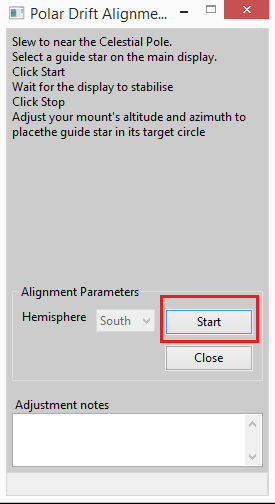
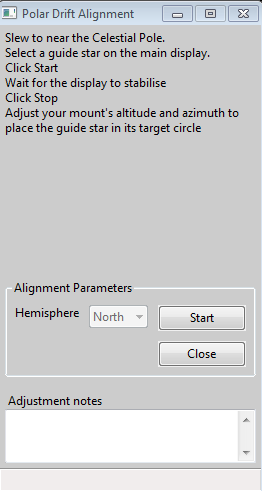
Updated help content, fix spacing issue in polar-drift-align dialog.

Changed region(s): [[0.0, 0.0, 1.0, 1.0]]

diff --git a/help/Tutorials.htm b/help/Tutorials.htm
@@ -133,11 +133,11 @@ rotation.</li>
 </ul>
 <br>
 Now open the SPA tool via 'Tools'/'Static Polar Alignment', and the
-first window will open:<br>
+first window will open:<br><br>
 <br>
 <img style="width: 431px; height: 673px;" alt="" src="spa_IMG01.png"><br>
 <br>
-The PHD2 main display would look like this (southern pole example):<br>
+The PHD2 main display would look like this (southern pole example):<br><br>
 <br>
 <img style="width: 757px; height: 469px;" alt="" src="spa_IMG01a.png"><br>
 <br>
@@ -147,7 +147,7 @@ calibration and mount position. You can
 adjust the &#8216;Hour Angle&#8217; control or use the
 &#8216;Flip Camera&#8217; option to orient the
 star map to the main display. To pan the star map you can double click
-the point you want at the center; or click the &#8216;>&#8217; button to center
+the point you want at the center; or click the &#8216;&gt;&#8217; button to center
 the selected reference star.<br>
 The button to the right of the star map lets you toggle between displaying the star
 map or instructions for using the SPA tool.<br>
@@ -162,15 +162,15 @@ When you are ready to start aligning, click &#8216;Rotate&#8217;.
 The current position is indicated with a small blue circle on the main display, and
 the coordinates are displayed in the status bar. Note that the &#8216;Rotate&#8217; button has
 changed to a &#8216;Stop&#8217; button. If you want to quit or stop the mount slewing, click the
-&#8216;Stop&#8217; button.<br>
+&#8216;Stop&#8217; button.<br><br>
 <br>
-<img style="width: 431px; height: 673px;" alt="" src="spa_IMG02.png"><br>
+<img style="width: 431px; height: 673px;" alt="" src="spa_IMG02.png"><br><br>
 <br>
 <img style="width: 747px; height: 411px;" alt="" src="spa_IMG02a.png"><br>
 <br>
 After you click 'Rotate', the mount will slew west in RA in small steps as indicated in the status bar.
 Once two points have been recorded, the alignment graphic is overlaid on the PHD2 main
-display.<br>
+display.<br><br>
 <br>
 <img style="width: 758px; height: 573px;" alt="" src="spa_IMG03.png"><br>
 <br>
@@ -197,7 +197,7 @@ with the scope&#8217;s rotation.</li>
 </ul>
 <br>
 Now open the SPA tool via 'Tools'/'Static Polar Alignment', and the
-first window will open:<br>
+first window will open:<br><br>
 <br>
 <img style="width: 431px; height: 673px;" alt="" src="spa_IMG04.png"><br>
 <br>
@@ -207,7 +207,7 @@ calibration and mount position. You can
 adjust the &#8216;Hour Angle&#8217; control or use the
 &#8216;Flip Camera&#8217; option to orient the
 star map to the main display. To pan the star map you can double click
-the point you want at the center; or click the &#8216;>&#8217; button to center
+the point you want at the center; or click the &#8216;&gt;&#8217; button to center
 the selected reference star.<br>
 The button to the right of the star map lets you toggle between displaying the star
 map or instructions for using the SPA tool.<br>
@@ -220,7 +220,7 @@ Identify which star you selected with the drop-down list. Don't worry if you
 don't get it right, it can be corrected later.<br>
 <br>
 When ready, click &#8216;Get first position&#8217;. The current position is indicated with a small
-blue circle on the main display, and the coordinates are displayed in the status bar.<br>
+blue circle on the main display, and the coordinates are displayed in the status bar.<br><br>
 <br>
 <img style="width: 540px; height: 415px;" alt="" src="spa_IMG04a.png"><br>
 <br>
@@ -230,7 +230,7 @@ Slew the mount at least 20 minutes west in RA (RA decreases as you slew west).
 Select the same reference star on the main display.
 <br>
 Click &#8216;Get second position&#8217;. The position is marked with another small blue circle and
-the coordinates are displayed in the status bar.<br>
+the coordinates are displayed in the status bar.<br><br>
 <br>
 <img style="width: 543px; height: 391px;" alt="" src="spa_IMG05.png"><br>
 <br>
@@ -250,7 +250,7 @@ replace the bad point. The points do not have to be in order.
 <br>
 <br>
 The corrected alignment graphic updates automatically.
-<br>
+<br><br>
 <img style="width: 539px; height: 456px;" alt="" src="spa_IMG06.png"><br>
 <br>
 <br>
@@ -258,7 +258,7 @@ Follow the instructions in the next section to adjust your mount&#8217;s polar a
 <br>
 <h2>Using the Polar Alignment Overlay</h2>
 The polar alignment overlay is placed on the main display once enough alignment points have
-been collected.<br>
+been collected.<br><br>
 <br>
 <img style="width: 628px; height: 497px;" alt="" src="spa_IMG07.png"><br>
 <br>
@@ -297,15 +297,20 @@ re-calibrate. <br>
 <br>
 <br>
 <h1><a name="Polar_Drift_Align"></a>PHD2 Polar Drift Alignment Tool</h1>
-The Polar Drift Alignment tool operates on a similar principle to the regular Drift Alignment tool.
-The difference is that the drift is measured near the celestial pole to calculate the adjustments needed
-in both Azimuth and Altitude at the same time. However, it is becomes less accurate as the distance of the
-drift star from the pole increases. Also, it may take some time for the adjustment to settle so Static
-Polar Alignment can be faster. The main advantages of Polar Drift Alignment are that any star can be chosen and
-at most, the tool only needs your hemisphere to be entered.<br>
+The Polar Drift Alignment tool operates on a similar principle to the
+regular Drift Alignment tool.
+The difference is that the drift is measured near the celestial pole to
+calculate the adjustments needed
+in both Azimuth and Altitude at the same time. However, it&nbsp;becomes
+less accurate as the distance of the
+drift star from the pole increases. Also, it may take some time for the
+adjustment to settle so Static
+Polar Alignment can be faster. The main advantages of Polar Drift
+Alignment are that any star can be chosen and&nbsp;the tool only needs
+to know which hemisphere you're in.<br>
 To get started, perform the following steps:<br>
 <ul>
-<li>Connect PHD2 to your camera</span></li>
+<li>Connect PHD2 to your camera</li>
 <li>Be sure that PHD2 has already done a calibration for this set-up</li>
 <li>Manually adjust the mount&#8217;s RA axis to point within 5 degrees of the apparent pole, then
 slew the telescope to point to Dec = +90 or -90. On a German equatorial mount, it&#8217;s best to start with
@@ -313,12 +318,12 @@ the mount in the counterweight-down orientation, pointing at the pole.</li>
 <li>Check that your hemisphere is correctly identified and adjust if necessary</li>
 <li>Select a suitable guide star on the main display</li>
 </ul>
-Click the &#8216;Start&#8217; button to start the drift.<br>
-<img style="width: 275px; height: 504px;" alt="" src="pd_IMG01.png"><br>
+Click the &#8216;Start&#8217; button to start the drift.<br><br>
+<img style="width: 262px; height: 491px;" alt="" src="pd_IMG01.png"><br><br>
 You will soon see a red line appear on the main display. This shows the adjustment needed on the guide star 
 to minimise the drift. At first it will move around a lot until it settles onto a stable adjustment.<br>
 When it has settled, click the &#8216;Stop&#8217; button. The adjustment will remain on the main display.<br>
-Adjust the altitude and azimuth knobs to move the guide star into the red circle at the end of the red line.<br>
+Adjust the altitude and azimuth knobs to move the guide star into the red circle at the end of the red line.<br><br><br>
 <img style="width: 587px; height: 500px;" alt="" src="pd_IMG02.png"><br>
 
 </body></html>

diff --git a/help/Tools.htm b/help/Tools.htm
@@ -294,11 +294,13 @@ does require visibility and identification of several stars near the pole, but
 the tool makes that reasonably easy assuming your sky conditions are good
 enough to see the stars.&nbsp; </p><span style=""></span>
 
-<p>The third alignment option, polar drift alignment, is probably the simplest one to perform at the expense of a bit of accuracy and speed. It
-requires a clear view of the northern or southern polar region, and it facilitates adjustment of both mount axes at the same time. 
-Minimal user input is needed so it is very simple to use.
-
-<p class="MsoNormal"><o:p>&nbsp;</o:p>The three techniques are described in detail in the following
+<p>The third alignment option, polar drift alignment, is probably the
+simplest one to perform at the expense of a bit of accuracy and speed.
+It
+requires a clear view of the northern or southern polar region, and it
+facilitates adjustment of both mount axes at the same time. Minimal
+user input is needed so it is very simple to use.
+</p><p class="MsoNormal"><o:p>&nbsp;</o:p>The three techniques are described in detail in the following
 sections.<span style="">&nbsp; </span>Imagers should probably
 experiment with them and choose the one that best suits their
 needs.<span style="">&nbsp; </span>The importance of alignment
@@ -445,13 +447,9 @@ mechanism. &nbsp;You&nbsp;then click
 will appear to wander around on the display - this is entirely normal.
 &nbsp;As guider images are acquired, statistics are computed and
 displayed in real-time in the user interface. Of particular interest
-are the table entries in the "High-frequency Star Motion" section which
-show ongoing results of the averaging process. &nbsp;After about one
-minute of data collection, these numbers will usually stabilize and
-you'll have a reasonable measurement of the high-frequency star
-movement caused by seeing conditions. &nbsp;You'll also have a rough measure of your polar alignment error although the accuracy
-will&nbsp;improve if you let the sampling run for longer periods
-of time. &nbsp;If you want to get an accurate measure of your polar alignment error
+are the table entries for&nbsp;"High-frequency Star Motion" and "Polar Alignment Error". &nbsp;After about two
+minutes of data collection, these numbers will usually stabilize and
+you'll have&nbsp;reasonable measurements. &nbsp;If you want to get a more accurate measure of your polar alignment error
 and any uncorrected periodic error in RA, you'll need to let the
 Guiding Assistant run for up to 10 minutes. When you finally click the 'Stop'
 button, this phase of the measurement process will stop. &nbsp; &nbsp;If
@@ -474,7 +472,10 @@ you've checked the box to 'Measure Declination Backlash',
 that&nbsp;process will begin as soon as the high-frequency measurements
 are completed. &nbsp;In other words, clicking once on the 'Stop' button
 halts the high-frequency measurements and begins the measurement of
-declination backlash. &nbsp;A new group of status messages will be
+declination backlash. &nbsp;However, if the initial sampling period was
+less than 2 minutes, a dialog box will appear and the backlash test
+will continue to sample until the 2-minute period has expired. &nbsp; A
+new group of status messages will be
 shown immediately above the 'Start' and 'Stop' buttons so you can see
 what's being done:<br><br><img style="width: 516px; height: 684px;" alt="" src="Guiding_Assistant_MeasuringBL.png"><br><br>To
 do backlash measurement, PHD2 will move the star by large amounts,

diff --git a/help/Advanced_settings.htm b/help/Advanced_settings.htm
@@ -368,9 +368,14 @@ you
 can disable guider output in order to see the general shape and
 amplitude of your mount's periodic error or to check the amount of
 drift from polar mis-alignment.</li><li>'<a name="Stop_guiding_on_slew"></a>Stop
-guiding when mount slews' - if guiding through an ASCOM interface, PHD2
-can detect that a slew operation is underway and will stop issuing
-guide commands..</li></ul>Calibration Step Calculator<br><br><img style="width: 319px; height: 525px;" alt="Calc_step_dialog" src="Advanced_calstep_calculator.png"><br><span style="font-size: 10pt; font-family: Arial;"></span><br>
+guiding when mount slews' - a diagnostic option for working with ASCOM
+mount drivers that may report the slewing status incorrectly. &nbsp;The option
+should&nbsp;be left checked unless you know the driver for your mount
+has this problem (highly unlikely). &nbsp; Also,&nbsp; it will
+generally not detect&nbsp;slews that are initiated by the
+hand-controller. &nbsp;In any case, PHD2 will continue to try to track
+the guide star, so slews will typically result in lost-star
+notifications - beeping and flashing of the PHD2 image window.</li></ul>Calibration Step Calculator<br><br><img style="width: 319px; height: 525px;" alt="Calc_step_dialog" src="Advanced_calstep_calculator.png"><br><span style="font-size: 10pt; font-family: Arial;"></span><br>
 To
 use the <a name="Calculator_auto-step-size"></a>calculator,
 be sure the topmost three edit controls are

diff --git a/polardrift_toolwin.cpp b/polardrift_toolwin.cpp
@@ -162,7 +162,7 @@ wxCAPTION | wxCLOSE_BOX | wxMINIMIZE_BOX | wxSYSTEM_MENU | wxTAB_TRAVERSAL | wxF
         "Click Start\n"
         "Wait for the display to stabilise\n"
         "Click Stop\n"
-        "Adjust your mount's altitude and azimuth to place"
+        "Adjust your mount's altitude and azimuth to place "
         "the guide star in its target circle\n"
         );
 
